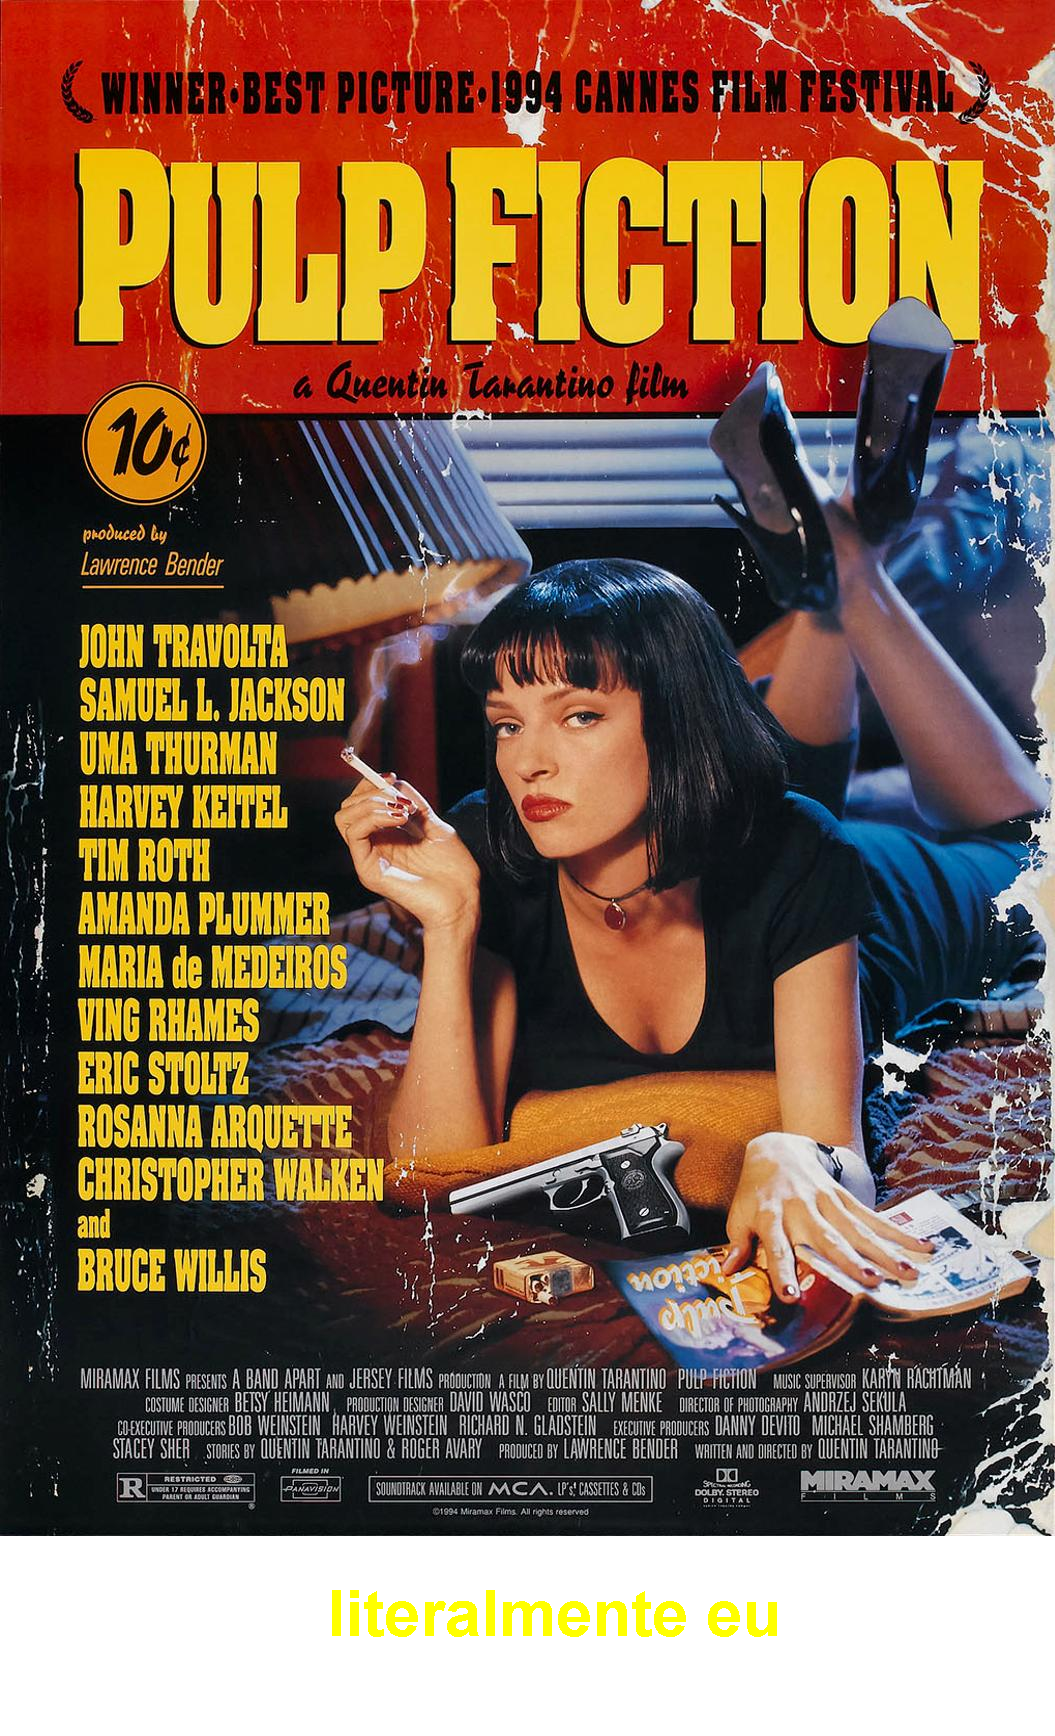
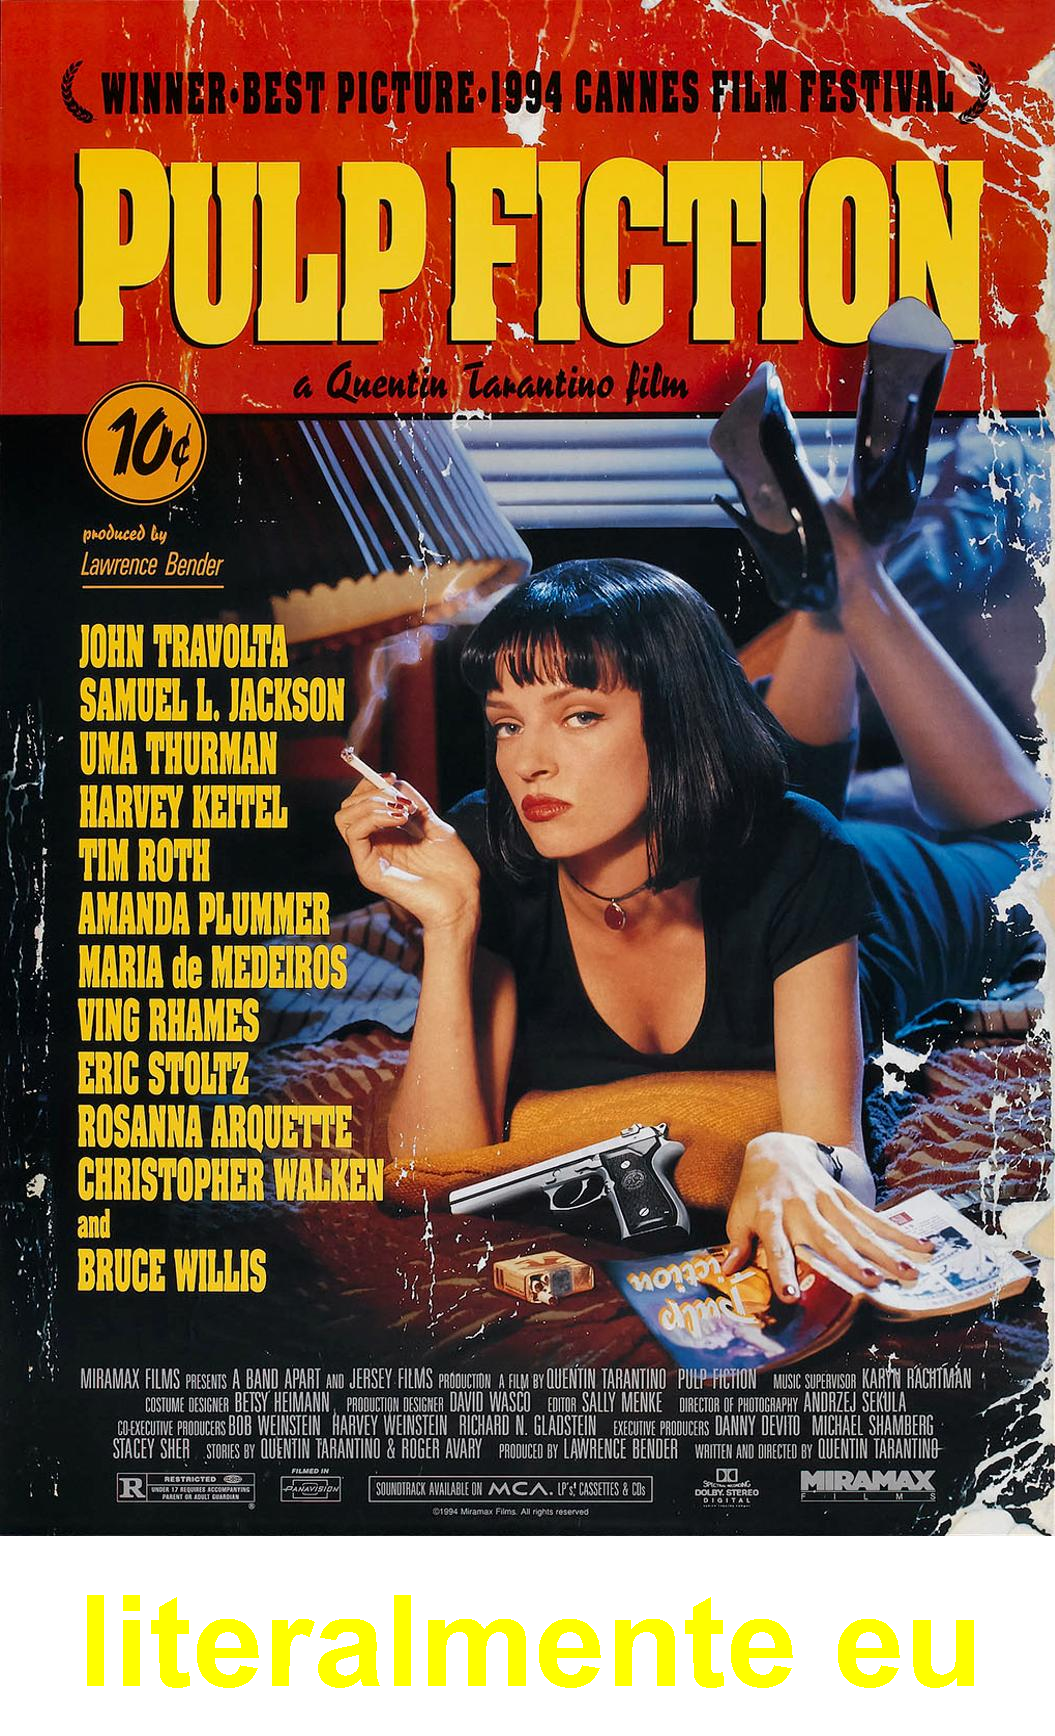
alterando aula 2

Changed region(s): [[0.0607, 0.9021, 0.7583, 0.9954], [0.7886, 0.9332, 0.9403, 0.9954]]

diff --git a/Aula 2/alurastickers/src/App.java b/Aula 2/alurastickers/src/App.java
@@ -1,4 +1,6 @@
+import java.io.InputStream;
 import java.net.URI;
+import java.net.URL;
 import java.net.http.HttpClient;
 import java.net.http.HttpRequest;
 import java.net.http.HttpResponse;
@@ -26,11 +28,18 @@ public class App {
         List<Map<String, String>> listaDeFilmes = parser.parse(body);
 
         // Exibir os dados separados
+
+        var geradora = new GeradorDeFigurinhas();
+
         for (Map<String,String> filmes : listaDeFilmes) {
-            System.out.println(filmes.get("title"));
-            System.out.println(filmes.get("image"));
-            System.out.println("imDbRating");
-            System.out.println();
+            
+            String titulo = filmes.get("title");
+            String urlImagem = filmes.get("image");
+            
+            InputStream inputStream = new URL(urlImagem).openStream();
+            String nomeArquivo = titulo + ".png";
+
+            geradora.cria(inputStream, nomeArquivo);
         }
 
     }

diff --git a/Aula 2/alurastickers/src/GeradorDeFigurinhas.java b/Aula 2/alurastickers/src/GeradorDeFigurinhas.java
@@ -33,12 +33,12 @@ public class GeradorDeFigurinhas {
         graphics.drawImage(imagemOriginal , 0, 0 , null);
 
         //Configurar a fonte
-        Font fonte = new Font(Font.SANS_SERIF, Font.BOLD, 64);
+        Font fonte = new Font(Font.SANS_SERIF, Font.BOLD, 128);
         graphics.setColor(Color.YELLOW);
         graphics.setFont(fonte);
         
         // escrever uma frase na nova imagem
-        graphics.drawString("literalmente eu", largura/2 - 200 , novaAltura - 100);
+        graphics.drawString("literalmente eu", largura/2 - 450 , novaAltura - 50);
         
         // escrever a nova imagem em um arquivo
         ImageIO.write(novaImagem, "png", new File("saída/", nomeArquivo));
